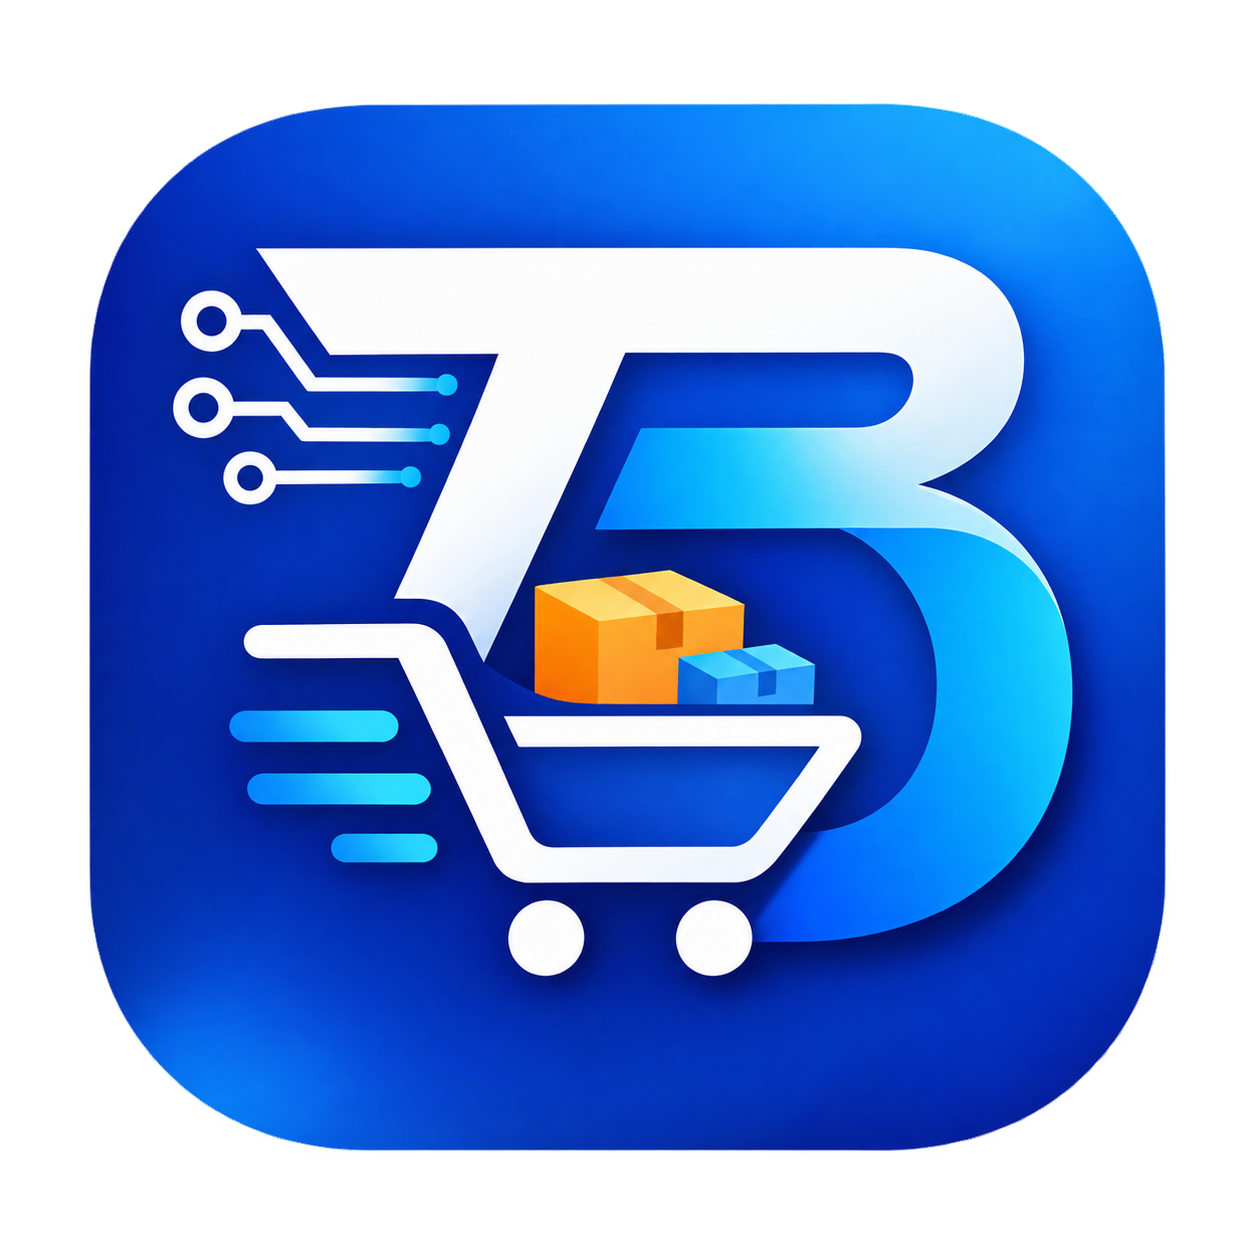
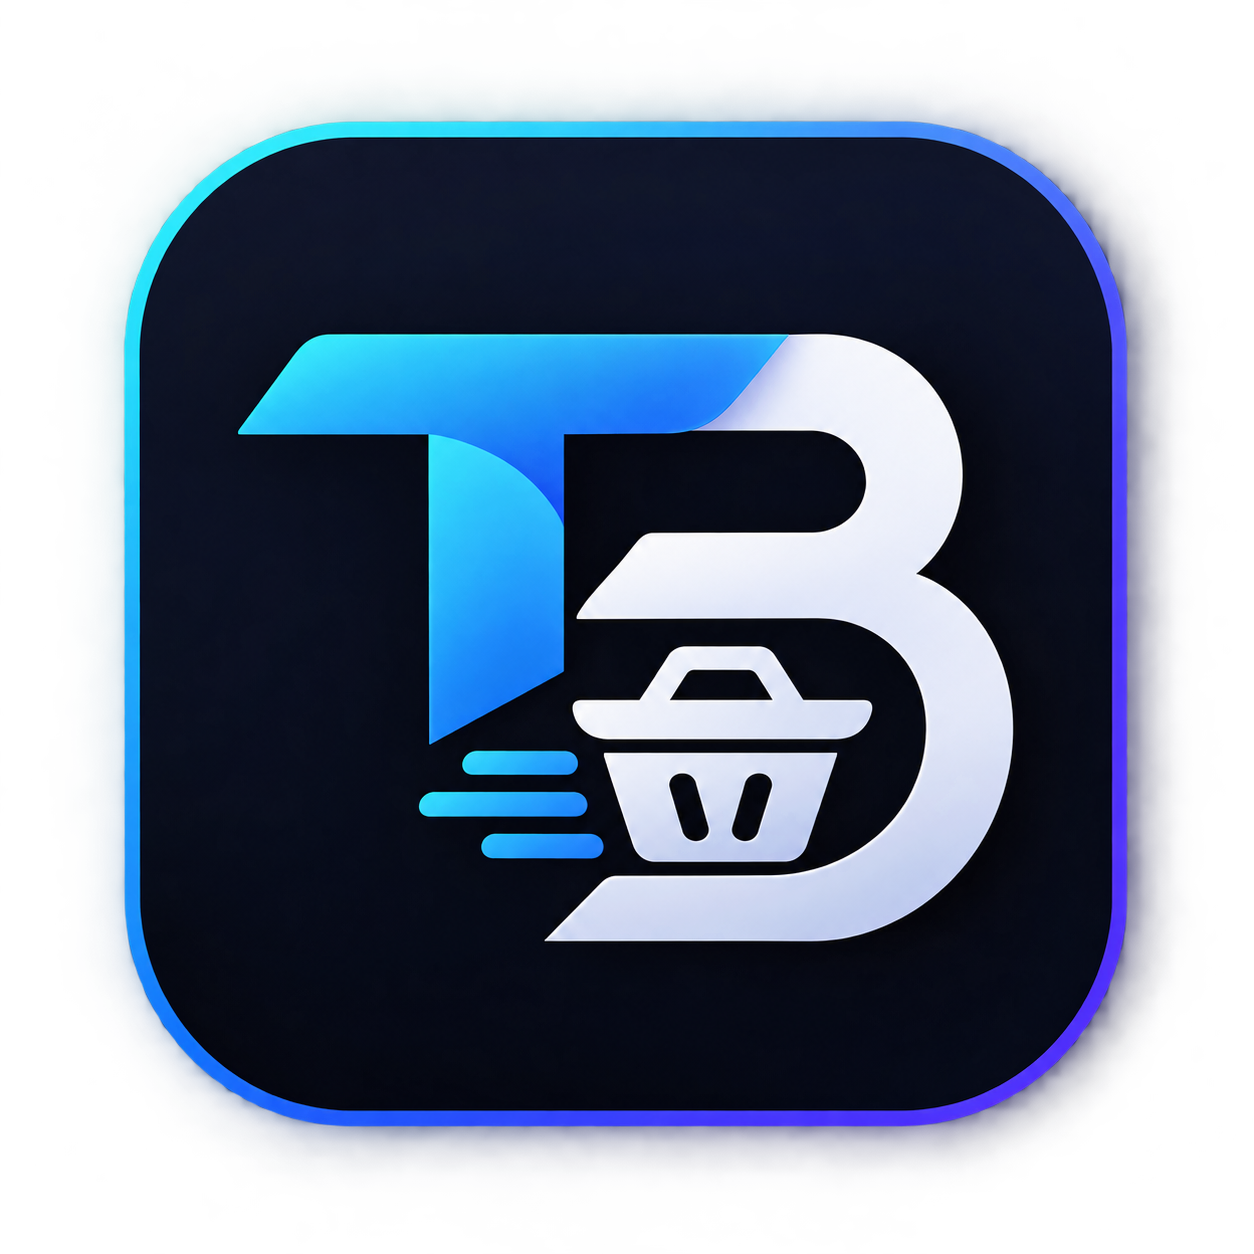
fix: connect product API to backend and change faveicon

diff --git a/src/app/api/products/route.ts b/src/app/api/products/route.ts
@@ -4,7 +4,8 @@ import { buildProductDocument } from "@/lib/productDoc";
 
 export const runtime = "nodejs";
 
-const BACKEND_PRODUCTS_URL = process.env.BACKEND_PRODUCTS_URL + "/api/v1/products";
+const BACKEND_SERVER_URL =
+  process.env.BACKEND_PRODUCTS_URL || process.env.NEXT_PUBLIC_SERVER_URL;
 
 async function getProductsCollection() {
   const collections = await catalogDatabase.listCollections().toArray();
@@ -44,52 +45,52 @@ export async function GET(request: NextRequest) {
   const search = searchParams.get("search") || "";
 
   try {
-    const backendUrl = new URL(BACKEND_PRODUCTS_URL);
-    backendUrl.searchParams.set("page", String(page));
-    backendUrl.searchParams.set("limit", String(limit));
-    if (search) {
-      backendUrl.searchParams.set("search", search);
-    }
+    if (BACKEND_SERVER_URL) {
+      const backendUrl = new URL("/api/v1/products", BACKEND_SERVER_URL);
+      backendUrl.searchParams.set("page", String(page));
+      backendUrl.searchParams.set("limit", String(limit));
+      if (search) {
+        backendUrl.searchParams.set("search", search);
+      }
 
-    const backendRes = await fetch(backendUrl.toString(), {
-      cache: "no-store",
-      headers: { Accept: "application/json" },
-      signal: AbortSignal.timeout(4000),
-    });
-
-    if (backendRes.ok) {
-      const json = await backendRes.json();
-      const backendList = Array.isArray(json?.data)
-        ? json.data
-        : Array.isArray(json)
-          ? json
-          : [];
-
-      backendList.sort((first: Record<string, unknown>, second: Record<string, unknown>) => {
-        const firstDate = Date.parse(String(first.createdAt || first.updatedAt || ""));
-        const secondDate = Date.parse(String(second.createdAt || second.updatedAt || ""));
-        return (Number.isNaN(secondDate) ? 0 : secondDate) - (Number.isNaN(firstDate) ? 0 : firstDate);
+      const backendRes = await fetch(backendUrl.toString(), {
+        cache: "no-store",
+        headers: { Accept: "application/json" },
+        signal: AbortSignal.timeout(4000),
       });
 
-      const formattedList = backendList.map((product: Record<string, unknown>) => ({
-        ...product,
-        _id: product._id ? String(product._id) : (product.id as string) || String(Math.random()),
-      }));
+      if (backendRes.ok) {
+        const json = await backendRes.json();
+        const backendList = Array.isArray(json?.data)
+          ? json.data
+          : Array.isArray(json)
+            ? json
+            : [];
 
-      return NextResponse.json({
-        success: true,
-        data: formattedList,
-        pagination: json.pagination || {
-          page,
-          limit,
-          total: formattedList.length,
-          totalPages: Math.ceil(formattedList.length / limit) || 1,
-        },
-      });
+        backendList.sort((first: Record<string, unknown>, second: Record<string, unknown>) => {
+          const firstDate = Date.parse(String(first.createdAt || first.updatedAt || ""));
+          const secondDate = Date.parse(String(second.createdAt || second.updatedAt || ""));
+          return (Number.isNaN(secondDate) ? 0 : secondDate) - (Number.isNaN(firstDate) ? 0 : firstDate);
+        });
+
+        const formattedList = backendList.map((product: Record<string, unknown>) => ({
+          ...product,
+          _id: product._id ? String(product._id) : (product.id as string) || String(Math.random()),
+        }));
+
+        return NextResponse.json({
+          success: true,
+          data: formattedList,
+          pagination: json.pagination || {
+            page,
+            limit,
+            total: formattedList.length,
+            totalPages: Math.ceil(formattedList.length / limit) || 1,
+          },
+        });
+      }
     }
-  } catch (error) {
-    console.warn("Backend server not reachable, attempting direct MongoDB fallback:", error);
-  }
+  } catch {}
 
   // Fallback: If backend is down, query MongoDB directly with pagination
   try {

diff --git a/src/app/api/sales/route.ts b/src/app/api/sales/route.ts
@@ -71,14 +71,17 @@ export async function GET(request: NextRequest) {
       const matchedReturns = (docId && returnsBySale[docId]) || (doc.invoiceNo && returnsBySale[doc.invoiceNo]) || [];
 
       if (matchedReturns.length > 0) {
-        const totalRefund = matchedReturns.reduce((sum, r) => sum + (Number(r.totalRefundAmount) || 0), 0);
+        const totalRefund = matchedReturns.reduce(
+          (sum: number, r: any) => sum + (Number(r.totalRefundAmount) || 0),
+          0,
+        );
         const origGrand = Number(doc.originalGrandTotal ?? doc.grandTotal) || 0;
         const origSub = Number(doc.originalSubTotal ?? doc.subTotal) || 0;
         const netGrand = Math.max(0, origGrand - totalRefund);
         const netSub = Math.max(0, origSub - totalRefund);
 
         const returnedQtyMap: Record<string, number> = {};
-        matchedReturns.forEach((r) => {
+        matchedReturns.forEach((r: any) => {
           (r.items || []).forEach((it: any) => {
             const pId = it.productId;
             const q = Number(it.quantity || 1);

diff --git a/src/app/api/purchases/route.ts b/src/app/api/purchases/route.ts
@@ -60,14 +60,17 @@ export async function GET(request: NextRequest) {
       const matched = (docId && returnsByPurchase[docId]) || (doc.id && returnsByPurchase[doc.id]) || [];
 
       if (matched.length > 0) {
-        const totalRefund = matched.reduce((sum, r) => sum + (Number(r.totalRefundAmount) || 0), 0);
+        const totalRefund = matched.reduce(
+          (sum: number, r: any) => sum + (Number(r.totalRefundAmount) || 0),
+          0,
+        );
         const origGrand = Number(doc.originalGrandTotal ?? doc.grandTotal) || 0;
         const origSub = Number(doc.originalSubTotal ?? doc.subTotal) || 0;
         const netGrand = Math.max(0, origGrand - totalRefund);
         const netSub = Math.max(0, origSub - totalRefund);
 
         const returnedQtyMap: Record<string, number> = {};
-        matched.forEach((r) => {
+        matched.forEach((r: any) => {
           (r.items || []).forEach((it: any) => {
             const pId = it.productId;
             const q = Number(it.quantity || it.quantityReturned || 1);

diff --git a/src/app/(MainLayout)/(Pages)/sales/invoice/page.tsx b/src/app/(MainLayout)/(Pages)/sales/invoice/page.tsx
@@ -596,7 +596,7 @@ function LegacySalesInvoicePage() {
               </div>
             </div>
             <div>
-              <label className={labelClass}>Date From</label>
+              <label className={legacyLabelClass}>Date From</label>
               <input
                 className={legacyFieldClass}
                 type="date"
@@ -605,7 +605,7 @@ function LegacySalesInvoicePage() {
               />
             </div>
             <div>
-              <label className={labelClass}>Date To</label>
+              <label className={legacyLabelClass}>Date To</label>
               <input
                 className={legacyFieldClass}
                 type="date"

diff --git a/src/components/BranchSection/BranchesPageClient.tsx b/src/components/BranchSection/BranchesPageClient.tsx
@@ -238,7 +238,8 @@ export default function BranchesPageClient() {
 
   const handleToggleStatus = async (branch: Branch) => {
     const targetId = branch.id || branch._id;
-    const newStatus = branch.status === "ACTIVE" ? "INACTIVE" : "ACTIVE";
+    const newStatus: Branch["status"] =
+      branch.status === "ACTIVE" ? "INACTIVE" : "ACTIVE";
 
     try {
       const res = await fetch(`/api/branches/${targetId}`, {

diff --git a/src/app/(MainLayout)/(Pages)/sales/return/SalesReturn.tsx b/src/app/(MainLayout)/(Pages)/sales/return/SalesReturn.tsx
@@ -19,7 +19,8 @@ import {
   Package,
 } from "lucide-react";
 import toast from "react-hot-toast";
-import { Sale, SalesReturn, SalesReturnSettlementType } from "@/types/sale";
+import { Sale } from "@/types/sale";
+import type { SalesReturn, SalesReturnSettlementType } from "@/types/sale";
 import SalesCreditNoteModal from "@/components/SalesSection/SalesCreditNoteModal";
 
 type ReturnStats = {

diff --git a/src/app/api/products/[id]/route.ts b/src/app/api/products/[id]/route.ts
@@ -1,6 +1,6 @@
 import { NextRequest, NextResponse } from "next/server";
 
-const BACKEND_PRODUCTS_URL = process.env.BACKEND_PRODUCTS_URL;
+const BACKEND_PRODUCTS_URL = process.env.NEXT_PUBLIC_SERVER_URL;
 
 export async function DELETE(
   request: NextRequest,

diff --git a/src/app/layout.tsx b/src/app/layout.tsx
@@ -16,7 +16,7 @@ const geistMono = Geist_Mono({
 
 export const metadata: Metadata = {
   title: "Tech-Basket",
-  description:"AI-Powered Inventory Management System in Bangladesh",
+  description: "AI-Powered Inventory Management System in Bangladesh",
 };
 
 
